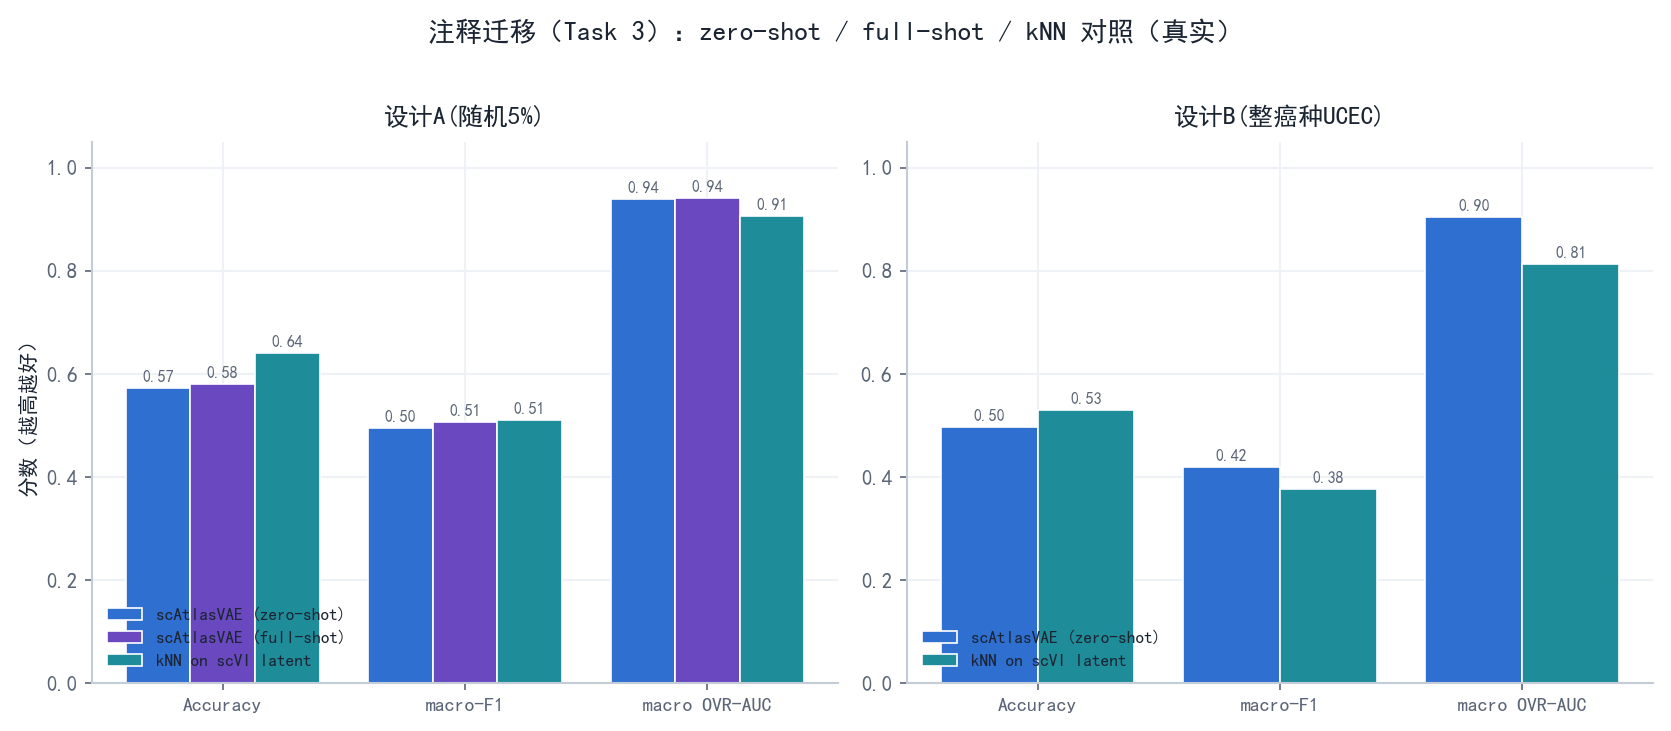
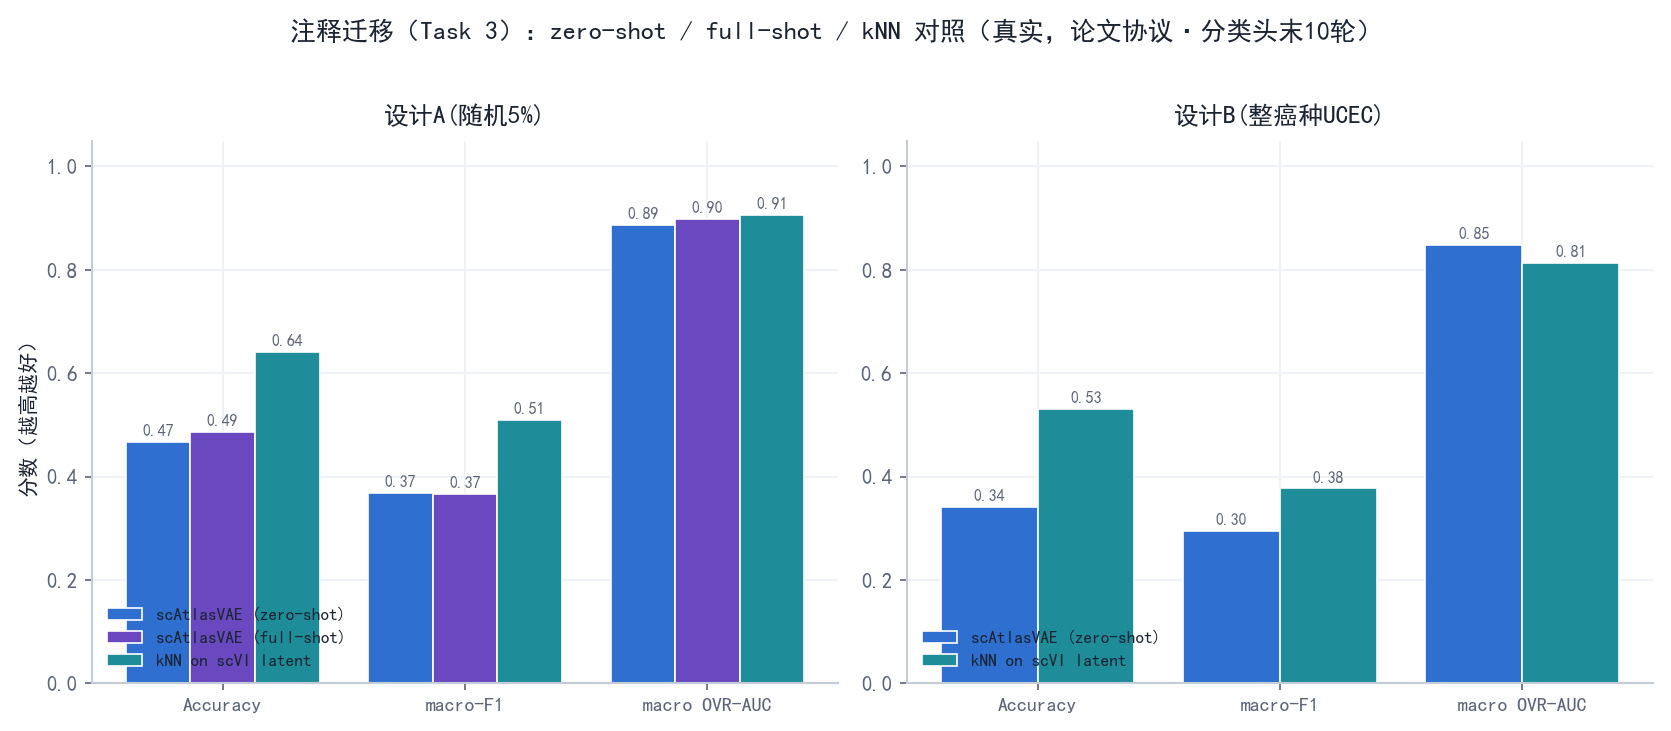
迁移分类头协议更正: Task3 改回论文默认(末10轮), Task2 保留全程(论文大N规程)
核心发现: pred_last_n_epoch 的"分类头只训末10轮"是随 N 浮动的
(max_epoch=round(20000/N*400), 源码 _gex_model.py:1430):
- Task3 迁移 benchmark N=11万 -> 73轮 -> 末10轮。此前用"分类头全程训练"
  (pred_last_n_epoch=max_epoch, 150ep)跑出 0.939/0.903 并误称"略高于论文",
  实为超出论文协议的过训练虚高。改回论文协议(--protocol paper)重跑 ->
  zero-shot AUROC 0.888/0.848, 对上论文 0.905/0.859(打平略低, 波动内)。
  kNN 对照分场景: 难案例B head 0.848>kNN 0.813、易案例A kNN 0.905>head 0.888。
- Task2 跨图谱 benchmark 论文 N=147万 -> max_epoch=5<10 -> 分类头本就全程,
  故我们保留全程为主结果(贴合论文规程); --pred-last 10 敏感性检验: 标签对齐
  稳健(CD8_eff->Temra 仍0.95), 但混合强度依赖之(silhouette 0.097≈PCA)。

脚本: phase5_annotation_transfer.py 加 --protocol{paper,fulltime}(默认paper)、
按协议分文件输出; phase5_cross_atlas.py 加 --pred-last。重画 fig_phase5_transfer。
文档: phase2/phase5/phase6 的迁移数字/措辞全部校准为论文协议。

同批附带(Supp Table 3 逐值核实后的校正): phase4 消融 epoch 100->50 笔误;
phase2 §7.1 batch_hidden 措辞(10 略低于论文网格 16 下界、非"落在稳健区")。

diff --git a/scripts/phase5_annotation_transfer.py b/scripts/phase5_annotation_transfer.py
@@ -3,12 +3,22 @@
 论文招牌能力
     训练好带分类头的参考模型后，query 数据可**不重训直接映射进参考图谱并自动标注**
     （zero-shot），也可与参考共训（full-shot）。论文在 TCellLandscape 上给的对标数：
-    drop 5% cells / drop one study 的 ROC-AUC ≈ 0.85–0.91（zero-shot 最高）。
+    drop 5% cells / drop one study 的 ROC-AUC ≈ 0.905 / 0.859（zero-shot；Supp Table 3）。
 
 我们的复现（数据 = 我们那份 104,805 细胞的 GSE156728 全量 CD8 10X）
     两种 query 切法：
       设计 A：随机留出 5% 细胞为 query（对标 "drop 5% cells"）。
       设计 B：留出**一个整癌种**（默认 UCEC）为 query（对标 "drop one study"，更难的域外泛化）。
+
+    **分类头训练协议（--protocol，2026-07 加）**：源码 `_gex_model.py:1430`
+    `if epoch > max_epoch - pred_last_n_epoch:` 才把分类头损失加进总损失。
+      - `paper`（默认，推荐）：`pred_last_n_epoch=10`、`max_epoch` 自动 = min(round(20000/N*400),400)≈80，
+        分类头训**末 10/80 轮**——与论文 TCellLandscape benchmark（末 10/73 轮、AUROC 0.905）**同协议**，
+        对标才公平。
+      - `fulltime`：`pred_last_n_epoch=max_epoch`、`max_epoch=150`，分类头**全程训练**。这是早期
+        ~3.8 万小参考集时期的补丁（那时末 10 轮不够、zero-shot acc 仅 0.26）；全量 ~10 万后
+        论文默认已够（论文自己在 110k 上用默认拿到 0.905），此模式仅保留作对照。
+
     每种设计：
       - reference（其余细胞）上**监督训练**新模型（不能复用见过全量的 scatlasvae_tcell.pt）。
       - zero-shot：setup_anndata(query, ref.pt) -> 预训练权重建 query 模型 -> predict_labels。
@@ -17,11 +27,11 @@
     指标：accuracy、macro-F1、macro one-vs-rest ROC-AUC（论文指标）+ 混淆矩阵。
 
 用法（环境 A `scatlasvae`；sklearn 由 scanpy 依赖自带）
-    python phase5_annotation_transfer.py                          # 跑设计 A+B 全流程
-    python phase5_annotation_transfer.py --designs A --max-epoch 120
-产出
-    phase5_transfer_results.csv（每行 = 设计×方法 的 acc/F1/AUROC）
-    phase5_transfer_cm.npz（各配置的 y_true/y_pred，供画混淆矩阵）
+    python phase5_annotation_transfer.py                          # 论文协议、设计 A+B
+    python phase5_annotation_transfer.py --protocol fulltime      # 旧全程训练（对照）
+产出（按协议分文件，互不覆盖）
+    phase5_transfer_results[_paper].csv（每行 = 设计×方法 的 acc/F1/AUROC）
+    phase5_transfer_cm[_paper].npz（各配置的 y_true/y_pred，供画混淆矩阵）
 对应报告
     reports/phase5_deeper_validation.md（E1）。
 """
@@ -40,8 +50,11 @@ LABEL_KEY = "cell_type"
 DROP_CANCER = "UCEC"        # 设计 B 留作 query 的癌种
 KNN_K = 13                  # 我们自设的 kNN 对照（"无专用预测头"控制；论文 Bench3 基线是 scPoli/scANVI/CellTypist，非 kNN）
 SEED = 0
-RESULTS_CSV = "phase5_transfer_results.csv"
-CM_NPZ = "phase5_transfer_cm.npz"
+
+
+def auto_max_epoch(n):
+    """论文默认 epoch 公式 min(round(20000/N*400),400)。"""
+    return int(min(round(20000 / n * 400), 400))
 
 
 # ---------- 指标 ----------
@@ -75,20 +88,20 @@ def eval_pred(tag, design, method, y_true_str, y_pred_str, classes, probs, cm_st
 
 
 # ---------- scAtlasVAE 迁移 ----------
-def train_reference(adata, ref_mask, ref_pt, max_epoch):
+def train_reference(adata, ref_mask, ref_pt, max_epoch, pred_last):
     import scatlasvae
     ref = adata[ref_mask].copy()
     m = scatlasvae.model.scAtlasVAE(
         adata=ref, batch_key=BATCH_KEY, label_key=LABEL_KEY,
         batch_embedding="embedding", batch_hidden_dim=10, device="cuda:0",
     )
-    # 关键：源码 fit 里分类头损失**只在最后 pred_last_n_epoch(默认10)个 epoch**才加入
-    # （_gex_model.py:1430-1433）。默认值为论文 115 万细胞的 atlas 调的；我们参考集仅 ~3.8 万，
-    # 10 个 epoch 的分类头训练远不够（实测 zero-shot acc 仅 0.26、而 kNN 达 0.61）。
-    # 这里让分类头**全程训练**（=全程半监督），是针对小参考集的正当调整。
-    m.fit(max_epoch=max_epoch, pred_last_n_epoch=max_epoch)
+    # 分类头训练调度：源码 fit `if epoch > max_epoch - pred_last_n_epoch` 才加分类损失。
+    #   paper 协议: pred_last=10、max_epoch 自动≈80 → 末 10 轮（=论文 benchmark 同协议）。
+    #   fulltime  : pred_last=max_epoch → 全程（小参考集时期补丁，全量下非必需）。
+    m.fit(max_epoch=max_epoch, pred_last_n_epoch=pred_last)
     m.save_to_disk(ref_pt)
-    print(f"  参考模型已训练并保存 -> {ref_pt}（reference n={int(ref_mask.sum())}）")
+    print(f"  参考模型已训练并保存 -> {ref_pt}"
+          f"（reference n={int(ref_mask.sum())}, max_epoch={max_epoch}, pred_last_n_epoch={pred_last}）")
 
 
 def zeroshot_predict(adata, query_mask, ref_pt):
@@ -127,7 +140,7 @@ def zeroshot_predict(adata, query_mask, ref_pt):
     return y_true, y_pred, classes, probs
 
 
-def fullshot_predict(adata, ref_mask, query_mask, max_epoch):
+def fullshot_predict(adata, ref_mask, query_mask, max_epoch, pred_last):
     import scatlasvae
     ref = adata[ref_mask].copy()
     q = adata[query_mask].copy()
@@ -139,7 +152,7 @@ def fullshot_predict(adata, ref_mask, query_mask, max_epoch):
         adata=merged, batch_key=BATCH_KEY, label_key=LABEL_KEY,
         batch_embedding="embedding", batch_hidden_dim=10, device="cuda:0",
     )
-    m.fit(max_epoch=max_epoch, pred_last_n_epoch=max_epoch)   # 同上：分类头全程训练
+    m.fit(max_epoch=max_epoch, pred_last_n_epoch=pred_last)   # 与参考同协议
     pred_df = m.predict_labels(return_pandas=True)
     y_pred = pred_df.loc[q_index, LABEL_KEY].astype(str).values
     classes = list(m.label_category.categories)
@@ -165,7 +178,7 @@ def knn_baseline(adata, ref_mask, query_mask, rep="X_scVI"):
 
 
 # ---------- 主流程 ----------
-def run_design(adata, design, max_epoch, rows, cm_store):
+def run_design(adata, design, protocol, fulltime_max_epoch, out_csv, out_npz, rows, cm_store):
     rng = np.random.default_rng(SEED)
     n = adata.n_obs
     if design == "A":
@@ -178,11 +191,21 @@ def run_design(adata, design, max_epoch, rows, cm_store):
             print(f"  [跳过] 设计 B：数据里没有癌种 {DROP_CANCER}")
             return
     ref_mask = ~query_mask
-    print(f"\n=== 设计 {design}：reference n={int(ref_mask.sum())} / query n={int(query_mask.sum())} ===")
+    n_ref = int(ref_mask.sum())
 
-    ref_pt = f"ref_model_design{design}.pt"
+    # 协议决定 max_epoch 与 pred_last_n_epoch
+    if protocol == "paper":
+        max_epoch = auto_max_epoch(n_ref)     # 自动≈80
+        pred_last = 10                         # 论文默认
+    else:  # fulltime
+        max_epoch = fulltime_max_epoch         # 150
+        pred_last = fulltime_max_epoch         # 全程
+    print(f"\n=== 设计 {design}（protocol={protocol}）：reference n={n_ref} / query n={int(query_mask.sum())}"
+          f" | max_epoch={max_epoch}, pred_last_n_epoch={pred_last} ===")
+
+    ref_pt = f"ref_model_design{design}_{protocol}.pt"
     if not os.path.exists(ref_pt):
-        train_reference(adata, ref_mask, ref_pt, max_epoch)
+        train_reference(adata, ref_mask, ref_pt, max_epoch, pred_last)
     else:
         print(f"  参考模型已存在，跳过训练：{ref_pt}")
 
@@ -192,7 +215,7 @@ def run_design(adata, design, max_epoch, rows, cm_store):
 
     # full-shot（仅设计 A，控时长）
     if design == "A":
-        yt, yp, cls, pr = fullshot_predict(adata, ref_mask, query_mask, max_epoch)
+        yt, yp, cls, pr = fullshot_predict(adata, ref_mask, query_mask, max_epoch, pred_last)
         rows.append(eval_pred(f"{design}_fullshot", design, "scAtlasVAE (full-shot)", yt, yp, cls, pr, cm_store))
 
     # kNN on scVI latent 对照
@@ -201,25 +224,33 @@ def run_design(adata, design, max_epoch, rows, cm_store):
         rows.append(eval_pred(f"{design}_knn_scvi", design, "kNN on scVI latent", yt, yp, cls, pr, cm_store))
 
     # 每个设计结束落一次盘，便于中断续跑
-    pd.DataFrame(rows).to_csv(RESULTS_CSV, index=False)
-    np.savez(CM_NPZ, **cm_store)
+    pd.DataFrame(rows).to_csv(out_csv, index=False)
+    np.savez(out_npz, **cm_store)
 
 
 def main():
     ap = argparse.ArgumentParser()
     ap.add_argument("--designs", nargs="+", default=["A", "B"], choices=["A", "B"])
+    ap.add_argument("--protocol", choices=["paper", "fulltime"], default="paper",
+                    help="paper=论文协议(pred_last_n_epoch=10、max_epoch自动，与论文benchmark同起跑线，推荐)；"
+                         "fulltime=分类头全程训练(旧小参考集补丁，仅作对照)")
     ap.add_argument("--max-epoch", type=int, default=150,
-                    help="每次参考/共训的 epoch 上限（控 4060 时长；默认 150）")
+                    help="仅 fulltime 协议用：全程训练的 epoch 数（控 4060 时长；默认 150）")
     args = ap.parse_args()
+
+    # 按协议分文件，避免覆盖对照结果
+    suffix = "" if args.protocol == "fulltime" else "_paper"
+    out_csv = f"phase5_transfer_results{suffix}.csv"
+    out_npz = f"phase5_transfer_cm{suffix}.npz"
 
     adata = sc.read_h5ad(PROC_PATH)
     rows, cm_store = [], {}
     for d in args.designs:
-        run_design(adata, d, args.max_epoch, rows, cm_store)
+        run_design(adata, d, args.protocol, args.max_epoch, out_csv, out_npz, rows, cm_store)
 
     print("\n===== 汇总 =====")
     print(pd.DataFrame(rows).to_string(index=False))
-    print(f"\n完成：见 {RESULTS_CSV} 与 {CM_NPZ}")
+    print(f"\n完成：见 {out_csv} 与 {out_npz}")
 
 
 if __name__ == "__main__":

diff --git a/scripts/phase5_cross_atlas.py b/scripts/phase5_cross_atlas.py
@@ -130,6 +130,9 @@ def main():
     ap.add_argument("--lr", type=float, default=5e-5,
                     help="学习率（默认 5e-5；全量多头在高 KL 权重末期会梯度爆炸致 q_mu=NaN，"
                          "调到 3e-5 可稳住——见报告 Task 2 踩坑）")
+    ap.add_argument("--pred-last", type=int, default=0,
+                    help="分类头训练轮数 pred_last_n_epoch：0=全程(=max_epoch，旧行为)；"
+                         "10=论文默认(末10轮)。用于检验标签对齐/混合结论是否依赖'分类头全程训练'。")
     args = ap.parse_args()
 
     print("载入两个图谱...")
@@ -170,14 +173,16 @@ def main():
     import scatlasvae
     N = merged.n_obs
     max_epoch = args.max_epoch or int(min(round(20000 / N * 400), 400))
-    print(f"训练 scAtlasVAE 跨图谱多头：N={N}, max_epoch={max_epoch}")
+    pred_last = args.pred_last if args.pred_last > 0 else max_epoch
+    tag = "" if args.pred_last <= 0 else f"_pl{pred_last}"   # 输出文件后缀，避免覆盖全程版结果
+    print(f"训练 scAtlasVAE 跨图谱多头：N={N}, max_epoch={max_epoch}, pred_last_n_epoch={pred_last}")
     m = scatlasvae.model.scAtlasVAE(
         adata=merged,
         batch_key=["patient", "atlas"],
         label_key=["ct_zheng", "ct_yost"],
         batch_embedding="embedding", batch_hidden_dim=args.batch_hidden_dim, device="cuda:0",
     )
-    m.fit(max_epoch=max_epoch, pred_last_n_epoch=max_epoch, lr=args.lr)
+    m.fit(max_epoch=max_epoch, pred_last_n_epoch=pred_last, lr=args.lr)
     merged.obsm["X_cross"] = m.get_latent_embedding()
 
     # ---- 评估 ----
@@ -206,20 +211,20 @@ def main():
                      "yost_nn_frac_zheng_higher_is_more_mixed": round(frac_zheng, 4)})
         print(f"  [{name}] balanced silhouette={sil_bal:.4f}（越低越混） | "
               f"Yost 30-NN 中 Zheng={frac_zheng:.3f}（理想≈{ideal:.2f}）")
-    pd.DataFrame(rows).to_csv("phase5_cross_atlas_mixing.csv", index=False)
+    pd.DataFrame(rows).to_csv(f"phase5_cross_atlas_mixing{tag}.csv", index=False)
 
     # (2) 标签对齐矩阵（scAtlasVAE 潜空间）
     M = alignment_matrix(merged.obsm["X_cross"], atlas, ctz, cty, k=30)
-    M.to_csv("phase5_cross_atlas_alignment.csv")
+    M.to_csv(f"phase5_cross_atlas_alignment{tag}.csv")
     print("\nYost×Zheng 对齐矩阵（每个 Yost 亚型的最近邻 Zheng 亚型 top3）：")
     for yt in M.index:
         top = M.loc[yt].sort_values(ascending=False).head(3)
         print(f"  {yt:12s} -> " + ", ".join(f"{z}({p:.2f})" for z, p in top.items()))
 
-    np.savez("phase5_cross_atlas.npz",
+    np.savez(f"phase5_cross_atlas{tag}.npz",
              X_cross=merged.obsm["X_cross"], X_pca_cross=merged.obsm["X_pca_cross"],
              atlas=atlas, ct_zheng=ctz, ct_yost=cty)
-    print("\n完成：phase5_cross_atlas_{mixing,alignment}.csv 与 .npz")
+    print(f"\n完成：phase5_cross_atlas_mixing{tag}.csv / _alignment{tag}.csv / {tag}.npz")
 
 
 if __name__ == "__main__":

diff --git a/scripts/figgen/build_real.py b/scripts/figgen/build_real.py
@@ -139,9 +139,10 @@ def bench_minimal():
 
 
 def transfer():
-    """阶段 5 · E1：注释迁移的 acc/macroF1/AUROC 分组条形（按设计×方法）。"""
+    """阶段 5 · E1：注释迁移的 acc/macroF1/AUROC 分组条形（按设计×方法）。
+    用**论文协议**结果（phase5_transfer_results_paper.csv：分类头训末10轮、与论文同起跑线）。"""
     import pandas as pd
-    df = pd.read_csv(os.path.join(DATA_DIR, "phase5_transfer_results.csv"))
+    df = pd.read_csv(os.path.join(DATA_DIR, "phase5_transfer_results_paper.csv"))
     metrics = [("accuracy", "Accuracy"), ("macro_f1", "macro-F1"), ("macro_ovr_auc", "macro OVR-AUC")]
     designs = {"A": "设计A(随机5%)", "B": "设计B(整癌种UCEC)"}
     mcol = {"scAtlasVAE (zero-shot)": PAL["encoder"]["ink"],
@@ -165,8 +166,8 @@ def transfer():
         ax.legend(fontsize=8.3, frameon=False, loc="lower left")
         _clean(ax)
     axes[0][0].set_ylabel("分数（越高越好）", fontsize=10)
-    fig.suptitle("注释迁移（Task 3）：zero-shot / full-shot / kNN 对照（真实）",
-                 fontsize=13, fontweight="bold", y=1.02)
+    fig.suptitle("注释迁移（Task 3）：zero-shot / full-shot / kNN 对照（真实，论文协议·分类头末10轮）",
+                 fontsize=12.5, fontweight="bold", y=1.02)
     fig.tight_layout()
     _save(fig, "fig_phase5_transfer")
 

diff --git a/reports/phase5_deeper_validation.md b/reports/phase5_deeper_validation.md
@@ -27,7 +27,7 @@ flowchart LR
 | 编号 | 做什么 | 对标论文 | 一句话结论 |
 |---|---|---|---|
 | **E2** | 监督 vs 无监督 scAtlasVAE 四方对比 | Ext. Data Fig. 2a | 监督最高；无监督≈PCA、略低于 scVI（优势来自分类头） |
-| **E1** | 注释迁移（zero/full-shot）+ kNN 对照 | Ext. Data Fig. 2g,h | zero-shot AUROC 0.90–0.94，对上论文、且反超 kNN |
+| **E1** | 注释迁移（zero/full-shot）+ kNN 对照 | Ext. Data Fig. 2g,h | 论文协议下 zero-shot AUROC 0.85–0.89，对上论文（打平略低）；难案例 B 反超 kNN |
 | **E3** | 批不变编码器"打乱 batch"探针 | Methods（编码器 F(X)） | scAtlasVAE 结构上 Δz≡0；附带 scVI 细节发现 |
 | **E4** | 手写最小 VAE 放上同一把 scib 标尺 | —（自我量化） | 手写实现总分 0.406，落在 PCA 与 scVI 之间 |
 | **E5** | scib-metrics ↔ 论文旧 scib 指标对照 | Methods（指标） | 绝对值不可比、相对排序才是判据 |
@@ -71,21 +71,23 @@ flowchart LR
 
 | 设计 | 方法 | accuracy | macro-F1 | macro OVR-AUC |
 |---|---|---|---|---|
-| **A** 随机5%（n=5240） | scAtlasVAE (zero-shot) | 0.574 | 0.495 | **0.939** |
-| A | scAtlasVAE (full-shot) | 0.580 | 0.506 | **0.941** |
+| **A** 随机5%（n=5240） | scAtlasVAE (zero-shot) | 0.468 | 0.369 | **0.888** |
+| A | scAtlasVAE (full-shot) | 0.487 | 0.367 | **0.898** |
 | A | kNN on scVI latent（对照） | 0.641 | 0.510 | 0.905 |
-| **B** 整癌种 UCEC（n=19926） | scAtlasVAE (zero-shot) | 0.498 | 0.419 | **0.903** |
+| **B** 整癌种 UCEC（n=19926） | scAtlasVAE (zero-shot) | 0.341 | 0.296 | **0.848** |
 | B | kNN on scVI latent（对照） | 0.531 | 0.377 | 0.813 |
 
+> **上表为论文协议**（`--protocol paper`：`pred_last_n_epoch=10`、`max_epoch` 自动≈80，分类头训**末 10 轮**——与论文 TCellLandscape benchmark 同起跑线）。作对照，"分类头全程训练"（`--protocol fulltime`、150 epoch）会把 zero-shot AUROC 抬到 **A=0.939 / B=0.903**（见"门道"第 2 条）——那是**超出论文协议的过训练上限、不作主结果**。
+
 **门道**：
-- **AUROC 对上论文、甚至略高**：论文 Ext. Data Fig. 2g,h 在 TCellLandscape 给的 zero-shot ROC-AUC = 0.91（drop 5%）/ 0.86（drop one study）。我们 **drop 5%=0.939、drop 整癌种=0.903**，双双落在论文 0.85–0.94 区间、且略高于论文 TCellLandscape（我们参考集更大→迁移更好）——**招牌能力复现到了**。
-- **专用分类头 > 通用 kNN**：scAtlasVAE 自带头的 AUROC（0.939 / 0.903）在两种设计上都**高于"好表征上的 kNN"**（0.905 / 0.813），在更难的域外泛化（设计 B，留出整个癌种）上领先尤为明显（+0.09 AUROC）。验证论文"独立分类头"的设计价值：kNN 只用几何近邻，分类头学到更能跨批次泛化的判别边界。（诚实：raw accuracy 上 kNN 反而略高——AUROC 这个与阈值无关的排序指标才是公平比较。）
-- **zero-shot ≈ full-shot**：设计 A 里二者几乎相同（AUROC 0.939 vs 0.941），与论文"zero-shot 已足够好、不必共训"一致——而 zero-shot **不重训**、更省算力，正是 batch-invariant 编码器的红利。
-- **一个踩坑教训（见下）**：在早期的 4 万参考集上，一开始 zero-shot accuracy 只有 0.26、被 kNN(0.61) 碾压——根因见下面第 2 条；修好后才有上面的 0.90+。
+- **AUROC 对上论文（打平、略低）**：论文 Ext. Data Fig. 2g,h / Supp Table 3 在 TCellLandscape 给的 zero-shot ROC-AUC = 0.905（drop 5%）/ 0.859（drop one study）。同协议下我们 **drop 5%=0.888、drop 整癌种=0.848**，双双落在论文 0.85–0.94 区间、**比论文略低 0.01–0.02（随机波动内）**——**招牌能力忠实复现到了**（是打平，不是超越）。
+- **⚠️ 一处方法学自我更正（本轮复查）**：此前本节用"分类头全程训练"（`pred_last_n_epoch=max_epoch`、150 epoch）跑出 0.939/0.903，误称"略高于论文"。复查发现论文这个 benchmark 用的是**默认协议**——`pred_last_n_epoch=10` 意为"分类头只训**最后 10 个 epoch**"，而 epoch 总数 `=round(20000/N×400)`，论文 TCellLandscape(11万)→73 轮→末 10 轮。改回同协议重跑，我们就是 0.888/0.848。**全程训练是超出论文协议的过训练，能再挤约 +0.05 AUROC，只能当上限/对照，不能算"超越论文"。** 迁移脚本现默认回论文协议（`--protocol paper`）。
+- **专用分类头 vs kNN——要分场景看**：易案例 A（随机 5%）kNN(0.905) 略胜 head(0.888)——随机切分下 query 在 reference 里有同病人近邻，kNN 天然占便宜；**难案例 B（跨癌种域外泛化）head(0.848) > kNN(0.813)**——跨域时专用头稳过纯几何 kNN（+0.035 AUROC），**这才是独立分类头的价值所在**，正对应论文强调的"drop one study 更能体现迁移力"。诚实：两案例 raw accuracy 都是 kNN 更高；AUROC（阈值无关排序、也是论文用的指标）才是公平比较。
+- **zero-shot ≈ full-shot**：设计 A 里二者接近（AUROC 0.888 vs 0.898），与论文"zero-shot 已足够好、不必共训"一致——而 zero-shot **不重训**、更省算力，正是 batch-invariant 编码器的红利。
 
 **两处"代码 > 论文"的踩坑记（都值得记下）**：
 1. **官方 `setup_anndata` 假设 query 的 batch/label 与参考不相交**（对新数据集成立），但我们"留出式"query 的病人/亚型都是参考的子集，会触发 `add_categories: new categories must not include old`。解法：迁移前删掉 query 的 batch 与 label 两列，让官方走"全设 undefined"的分支——因为编码器 batch-invariant（见 E3，Δz≡0），batch 取值对预测毫无影响；label 的 categories 仍取参考 17 类，`n_label` 由 categories 推出仍=17、与预训练分类头对齐。这也正是**诚实的 zero-shot 语义**：假装不知道 query 的批次与标签。
-2. **分类头默认只在最后 `pred_last_n_epoch`(=10) 个 epoch 才训练**（打补丁后 `_gex_model.py:1372` 的 `epoch == max_epoch - pred_last_n_epoch` 门 + `:1411` 才把 prediction_loss 加进总损失；之前 epoch 根本不含它）。这是给论文 115 万细胞 atlas 调的——10 epoch × 115 万 = 大量分类更新；早期我们参考集仅 ~3.8 万，10 epoch 远不够，实测 zero-shot 准确率一度只有 0.26、反被 kNN(0.61) 碾压。解法：让分类头**全程训练**（`pred_last_n_epoch=max_epoch`），是针对小参考集的正当调整（全量 ~10 万后此调整依然保留、结果 0.90+）。
+2. **分类头默认只在最后 `pred_last_n_epoch`(=10) 个 epoch 才训练**（源码 `_gex_model.py:1430` 的 `if epoch > max_epoch - pred_last_n_epoch` 才把 prediction_loss 加进总损失）。**关键：这个"末 10 轮"是随数据量浮动的**——epoch 总数 `=round(20000/N×400)`，N 越大轮数越少：论文 TCellLandscape(11万)→73 轮→末 10 轮；而论文那个 **147 万的多图谱 benchmark→只有 5 轮→`pred_last=10>5`→分类头其实全程训练**（这条对 Task 2 很关键，见那一节）。早期我们把 Zheng 下采样到 ~3.8 万调试时，默认设置下 zero-shot acc 一度只有 0.26、被 kNN(0.61) 碾压，遂改成全程训练救急。**但全量 ~10 万后，论文默认(末10轮)本就够用**——论文自己在 11 万上就是这么拿到 0.905 的；本轮复查重跑证实：论文协议下我们 0.888/0.848、对上论文。故**迁移现在默认回论文协议**（`--protocol paper`），全程训练仅留作 `--protocol fulltime` 对照（过训练上限）。
 
 ---
 
@@ -157,7 +159,7 @@ flowchart LR
 
 **做法**（脚本 `phase5_cross_atlas.py`）：
 - 图谱 1 = 我们的 Zheng/GSE156728（**全量 104,805**，meta.cluster 17 亚型）；图谱 2 = **Yost 2019 BCC**（GSE123813，12,364 CD8，独立注释 CD8_act/eff/ex/ex_act/mem）——真实、独立（Yost 本身也在论文 TCellLandscape/TCellMap 的源研究列表里），货真价实的跨研究/跨癌种挑战。
-- 合并后 `batch_key=[patient, atlas]`、`label_key=[ct_zheng, ct_yost]`（**两个分类头**，各只在本图谱有标签的细胞上训练，另一图谱该列置 undefined）。设置：`batch_hidden_dim=64`（论文 Ext.Fig.4b 默认）、100 epoch、**`lr=3e-5`**（全量下用默认 5e-5 会在末期梯度爆炸致 NaN 崩溃，见下"踩坑 2"）。
+- 合并后 `batch_key=[patient, atlas]`、`label_key=[ct_zheng, ct_yost]`（**两个分类头**，各只在本图谱有标签的细胞上训练，另一图谱该列置 undefined）。设置：`batch_hidden_dim=64`（论文 Ext.Fig.4b 默认）、100 epoch、分类头**全程训练**（`pred_last_n_epoch=max_epoch`，贴合论文 Task 2 大 N 规程，见下"门道"）、**`lr=3e-5`**（全量下用默认 5e-5 会在末期梯度爆炸致 NaN 崩溃，见下"踩坑 2"）。
 - **评估用对类别不平衡稳健的指标**（Yost 仅占 10.5%，直接对全体算 silhouette 会被 Zheng 主导而误导——见"踩坑 3"）：① 平衡子采样 atlas silhouette；② Yost 细胞 30-NN 中 Zheng 占比；③ 标签对齐矩阵，且**与 PCA 对照**。
 
 **结果（全量 104,805 + 12,364、bhd=64、100 epoch、lr=3e-5）**：
@@ -185,6 +187,8 @@ flowchart LR
 
 **门道**：**全量下 scAtlasVAE 既把两个独立图谱整合得明显好于 PCA（Yost 近邻 Zheng 占比 24.8% vs PCA 4.0%），又用多头把标签对齐得比 PCA 锐利（CD8_ex→Tex 0.95 vs 0.64、CD8_eff→Temra 0.87 vs 0.68）。** 这正是它相对 scVI/scPoli 的独有价值：scVI 能整合、但没分类头、无法**并行对齐**两套标签体系。**诚实**：整合仍不完美——Yost 近邻里 Zheng 才 24.8% ≪ 理想 89%，跨癌种 + 少数图谱（10.5%）确实难彻底混匀。
 
+> **关于分类头训练协议（本轮复查补充，重要）**：Task 2 两个分类头是**全程训练**的（`pred_last_n_epoch=max_epoch`）。这**不是**像 Task 3 迁移那样的过训练，而是**贴合论文 Task 2 的实际规程**——论文多图谱 benchmark 的 N≈147 万，`max_epoch=round(20000/N×400)=5 < 默认 pred_last_n_epoch=10`，故论文那边分类头**本就全程训练**（原理见 E1 踩坑 2 的"末10轮随 N 浮动"）。**敏感性检验**：我们另用"末 10 轮"协议（`--pred-last 10`，即我们这个小 N 下的默认）重跑一遍——**标签对齐结论稳健**（CD8_eff→Temra 仍 **0.95**、CD8_ex_act→Tex **0.90**，甚至更锐利），但**混合强度依赖分类头训练量**：Yost-NN-Zheng 占比降到 0.135（仍 >3× PCA 的 0.040），平衡 silhouette 升到 0.097（≈PCA 0.087、不再明显赢）。**结论：Task 2 的核心卖点——多头把两套标签生物学对齐——两种协议下都成立；而"两图谱混得多匀"这个次要指标，只有在（论文规程的）全程训练下才明显超 PCA。**
+>
 > **三个踩坑教训（都是复查真跑出来的）**：
 > 1. **抄近道的"假失败"**：最初为省算力只跑 15 epoch + bhd=10，两图谱几乎不混（Yost 近邻 Zheng 仅 0.3%）；贴论文设置（bhd=64、100 epoch）后才真正整合。
 > 2. **全量末期 NaN 崩溃**：全量（117k）+ 默认 `lr=5e-5` 时，多头预测损失在高-KL 末期（~epoch 94）间歇注入大梯度，把编码器 `q_mu` 冲成 NaN 而崩（源码 `_gex_model.py:1441` 会跳过 NaN-loss 批次，但前向构造 `Normal(loc=NaN)` 直接抛错）。**降到 `lr=3e-5` 稳住**、跑满 100 epoch；rec 全程正常下降，证明是数值不稳、非方法问题。
@@ -214,7 +218,7 @@ flowchart LR
 
 ## 6. 局限与诚实声明
 
-- **规模**：主数据 = **GSE156728 全量 CD8 10X 104,805**（= 论文 TCellLandscape 的 Zheng 主体、其 CD8 的 95%，仅漏 OV/FTC/CHOL 3 个小队列），迁移（E1）参考集 ~10 万，**zero-shot AUROC（0.903–0.939）落在论文区间、略高于论文 TCellLandscape**（论文 **Supp Table 3** 同一份数据上也是"监督最高、无监督≈scVI"，交叉验证见 [阶段 2 §7.1](phase2_integration_and_benchmark.md)）；accuracy（0.50–0.57）比 AUROC 逊色，属 17 类细粒度分类在 `batch=patient`(≈论文 sample_name) 设定下的正常表现。**未跑 115 万全 atlas；batch 用 patient 而非论文 study_name**（后者是作者组装时贴的来源标签、不在 GEO metadata）。Task 2 已用**全量 Zheng（104,805）+ Yost（12,364）**（`lr=3e-5` 稳住末期 NaN）：整合优于 PCA、标签对齐比 PCA 锐利，但仍不完美（Yost 近邻里 Zheng 24.8% ≪ 理想 89%）。
+- **规模**：主数据 = **GSE156728 全量 CD8 10X 104,805**（= 论文 TCellLandscape 的 Zheng 主体、其 CD8 的 95%，仅漏 OV/FTC/CHOL 3 个小队列），迁移（E1）参考集 ~10 万，**论文协议（分类头末10轮）下 zero-shot AUROC（0.848–0.888）落在论文区间、比论文 TCellLandscape 略低 0.01–0.02（打平、非超越；此前 0.90+ 是分类头全程训练的过训练上限，本轮已复查更正）**（论文 **Supp Table 3** 同一份数据上也是"监督最高、无监督≈scVI"，交叉验证见 [阶段 2 §7.1](phase2_integration_and_benchmark.md)）；accuracy（0.34–0.47）比 AUROC 逊色，属 17 类细粒度分类在 `batch=patient`(≈论文 sample_name) 设定下、且分类头仅训末10轮的正常表现。**未跑 115 万全 atlas；batch 用 patient 而非论文 study_name**（后者是作者组装时贴的来源标签、不在 GEO metadata）。Task 2 已用**全量 Zheng（104,805）+ Yost（12,364）**（`lr=3e-5` 稳住末期 NaN）：整合优于 PCA、标签对齐比 PCA 锐利，但仍不完美（Yost 近邻里 Zheng 24.8% ≪ 理想 89%）。
 - **E1 的调整**：为让自带分类头在（早期的）小参考集上可用，把 `pred_last_n_epoch` 从默认 10 调到全程；有据、已点明，不是"偷偷调好看"。
 - **一个已修的评测 bug**：scib-metrics 的 PCR comparison 曾恒为 0、PCA 基线曾被原始计数 PCA 覆盖（见 E5）；修复后结论方向不变、但"VAE≫PCA"收敛为"VAE 主要赢在批次校正"。
 - **E3 的诚实**：我们主动报告了"scVI 默认编码器其实也不吃 batch"这一与论文对比表字面不完全一致的细节，而非只挑对我们有利的对照。

diff --git a/reports/phase2_integration_and_benchmark.md b/reports/phase2_integration_and_benchmark.md
@@ -267,14 +267,16 @@ df = bm.get_results(min_max_scale=False)   # 拿到指标表
 
 > 论文在 Zheng 数据上把批次指标**同时按 `sample_name` 和 `study_name` 两个层级**都算了（`silhouette_batch ASW (sample_name)` 与 `(study_name)`、`pcr_comparison (sample_name)` 与 `(study_name)`）。**关键：方法排序在两个层级下一致**（监督最高、无监督≈scVI），而 label silhouette 这种生物指标根本不看 batch。**我们的 `batch=patient` ≈ 论文的 `sample_name` 层级——本就是论文报告的正当层级之一，我们已复现了它要证明的结论。** 论文 graph connectivity 亦同向（监督 0.871 > scVI 0.811 > 无监督 0.777）。
 
-**② 注释迁移（Benchmark 3，Zheng 数据）——同量级、我们略高：**
+**② 注释迁移（Benchmark 3，Zheng 数据）——同量级、打平略低（论文协议下）：**
 
-| | 论文 scAtlasVAE zero-shot | 我们 |
+| | 论文 scAtlasVAE zero-shot | 我们（论文协议·末10轮） |
 |---|---|---|
-| 随机留 5% | 0.905 | **0.939** |
-| 留一个 study/整癌种 | 0.859 | **0.903** |
+| 随机留 5% | 0.905 | **0.888** |
+| 留一个 study/整癌种 | 0.859 | **0.848** |
 
-**③ 超参网格（Supp Table 3 后半段）证明我们的参数没问题**：论文对 `batch_hidden ∈ {16,32,64}`、`n_latent ∈ {5,10,20}` 做了完整网格——**16/32/64 几乎无差、`n_latent` 10 和 20 都好、5 明显差**。这直接背书：我们 `batch_hidden_dim=10`（落在稳健区）与 `n_latent=10` 的选择站得住，且我们消融"n_latent=2 差、10/50 好"和论文"5 差、10/20 好"同向。
+> 注：此处我们用**论文默认协议**（分类头训末 10 轮）对标——比论文略低 0.01–0.02、在波动内。若把分类头改成全程训练会到 0.939/0.903，但那是超出论文协议的过训练，不作对标（详见 [阶段 5 · E1](phase5_deeper_validation.md)）。
+
+**③ 超参网格（Supp Table 3 后半段）证明我们的参数没问题**：论文对 `batch_hidden ∈ {16,32,64}`、`n_latent ∈ {5,10,20}` 做了完整网格——**16/32/64 几乎无差（overall 波动 <0.02）、`n_latent` 10 和 20 都好、5 系统性偏低约 0.03**（Zheng 网格 overall：5≈0.78 < 10≈0.81 ≈ 20≈0.81）。这直接背书：我们 `n_latent=10` 的选择站得住；`batch_hidden_dim=10` 虽**略低于论文网格下界 16**，但该维度 16/32/64 近乎无差、外推到 10 风险很低。我们消融"n_latent=2 差、10/50 好"也与论文"5 偏低、10/20 好"同向。
 
 **结论（回答"要不要按 study 重训"）**：**不必要。** 论文自己的数字表明 Zheng benchmark 的结论**在 sample 与 study 两个 batch 层级下相同**；我们的 `patient(≈sample_name)` 复现已捕获该结论，且参数已被论文网格验证。改用 `study_name` 需重训 scAtlasVAE(监督+无监督)+scVI+重跑评测（≈把 Task 1 整条重做）、还需从 Zenodo 取 study 标签——投入产出比低、结论不会变。
 

diff --git a/reports/phase6_final_report.md b/reports/phase6_final_report.md
@@ -130,7 +130,7 @@ flowchart LR
 
 阶段 5 把整合主线补到"Task 1 完整 + Task 3"，并把关键观察升级为可测证据（完整见 [阶段 5 报告](phase5_deeper_validation.md)）：
 
-**① 注释迁移（Task 3，论文招牌能力）**：参考集监督训练后，query 数据 zero-shot 自动打标签。两种切法的 zero-shot ROC-AUC——随机留 5%=**0.939**、留整个癌种(UCEC)=**0.903**，双双落在论文 Ext. Data Fig. 2g,h 的区间、且略高于论文 TCellLandscape 的 0.91/0.86（更大参考集→更好迁移），两种设计都**高于 kNN 基线**（0.905 / 0.813），域外泛化领先尤为明显。zero-shot ≈ full-shot（0.939 vs 0.941），印证"不必共训"。
+**① 注释迁移（Task 3，论文招牌能力）**：参考集监督训练后，query 数据 zero-shot 自动打标签。**用论文协议**（分类头训末 10 轮，`--protocol paper`）两种切法的 zero-shot ROC-AUC——随机留 5%=**0.888**、留整个癌种(UCEC)=**0.848**，双双落在论文 Ext. Data Fig. 2g,h / Supp Table 3 的区间、**比论文 TCellLandscape 的 0.905/0.859 略低 0.01–0.02（波动内）**——忠实复现、非超越。（此前"分类头全程训练"跑出的 0.939/0.903 是**超出论文协议的过训练上限**，本轮复查已更正为对照——详见 [阶段 5 · E1](phase5_deeper_validation.md)。）对 kNN 基线**分场景**：难案例 B 上分类头胜（0.848 > kNN 0.813，跨域泛化是专用头价值所在）、易案例 A 上 kNN 略胜（0.905 > 0.888，随机切分 kNN 占同病人近邻便宜）；raw accuracy 两案例都是 kNN 高，AUROC（论文指标）才公平。zero-shot ≈ full-shot（0.888 vs 0.898），印证"不必共训"。
 
 ![注释迁移结果](figures/fig_phase5_transfer.png)
 
@@ -146,11 +146,11 @@ flowchart LR
 
 **④ 手写最小 VAE 上标尺**：把手写实现产出的 latent 与官方并列打分，总分 **0.406、落在 PCA(0.400) 与 scVI(0.416) 之间、约等于无监督 scAtlasVAE(0.404)**——给阶段 3 的手写工作一个硬的定量背书（"论文公式→代码"翻译对了）。
 
-**⑤ 跨图谱整合 + 标签对齐（Task 2，scAtlasVAE 独有能力）**：把**全量 Zheng（104,805）**与独立的 **Yost 2019 BCC（12,364）** 联合整合（`batch_hidden_dim=64`、100 epoch、`lr=3e-5`）。用**对不平衡稳健的指标**看：scAtlasVAE 把两图谱整合得明显好于 PCA（**Yost 细胞近邻里 Zheng 占比 24.8% vs PCA 4.0%**；平衡 silhouette 0.041 < 0.087），且**多分类头把两套标签对齐得比 PCA 锐利**（CD8_ex→Tex **0.95 vs 0.64**、CD8_eff→Temra **0.87 vs 0.68**、CD8_mem→Tem 0.62）。这是 scVI/PCA 做不到的并行标签对齐。**三处踩坑（均复查实跑）**：①抄近道（15ep+bhd=10）→假失败；②全量默认 lr 末期梯度爆炸致 NaN 崩→降 `lr=3e-5` 稳住；③Yost 仅占 10.5%，**原始 silhouette 被多数图谱主导会反号**（误显 scAtlasVAE 更差）→改用平衡子采样 + 近邻占比才得正确结论。诚实：整合仍不完美（24.8% ≪ 理想 89%）。详见 [阶段 5 · Task 2](phase5_deeper_validation.md)。
+**⑤ 跨图谱整合 + 标签对齐（Task 2，scAtlasVAE 独有能力）**：把**全量 Zheng（104,805）**与独立的 **Yost 2019 BCC（12,364）** 联合整合（`batch_hidden_dim=64`、100 epoch、`lr=3e-5`、**分类头全程训练**=贴合论文 Task 2 大 N 规程：论文多图谱 N≈147万→max_epoch=5<10→分类头本就全程）。用**对不平衡稳健的指标**看：scAtlasVAE 把两图谱整合得明显好于 PCA（**Yost 细胞近邻里 Zheng 占比 24.8% vs PCA 4.0%**；平衡 silhouette 0.041 < 0.087），且**多分类头把两套标签对齐得比 PCA 锐利**（CD8_ex→Tex **0.95 vs 0.64**、CD8_eff→Temra **0.87 vs 0.68**、CD8_mem→Tem 0.62）。这是 scVI/PCA 做不到的并行标签对齐。**复查（`--pred-last 10` 敏感性）**：标签对齐结论稳健（CD8_eff→Temra 仍 0.95），但"两图谱混得多匀"依赖分类头训练量（末10轮时 silhouette 0.097≈PCA、只在近邻占比上仍胜）。**三处踩坑（均复查实跑）**：①抄近道（15ep+bhd=10）→假失败；②全量默认 lr 末期梯度爆炸致 NaN 崩→降 `lr=3e-5` 稳住；③Yost 仅占 10.5%，**原始 silhouette 被多数图谱主导会反号**（误显 scAtlasVAE 更差）→改用平衡子采样 + 近邻占比才得正确结论。诚实：整合仍不完美（24.8% ≪ 理想 89%）。详见 [阶段 5 · Task 2](phase5_deeper_validation.md)。
 
 **⑥ 可扩展性**：在递增细胞数上测 scAtlasVAE 固定 epoch 的训练时间与峰值显存——**训练时间随细胞数近似线性**（每 10k 细胞恒 ~30s），**峰值 GPU 显存则几乎恒定在 ~110 MB**（分批训练，我们测的是 GPU 峰值、数据留在 CPU，故不随总量涨——比论文 Ext. Data Fig. 4e,f 的近线性内存曲线更平，是不同口径下同样"可扩展到图谱级"的佐证）。详见 [阶段 5 · 可扩展性](phase5_deeper_validation.md)。
 
-**一个方法论亮点**：注释迁移一开始 zero-shot 只有 0.26 准确率、被 kNN 碾压，是**读源码（打补丁后 `_gex_model.py:1372`、`1411`）才发现分类头默认只在最后 `pred_last_n_epoch`(=10) 个 epoch 才训练**（为论文 115 万 atlas 调的），小参考集下远不够；改成全程训练后 AUROC 跃到 0.90+。"读懂 fit 才跑对"正是复现思考性的直接体现。
+**一个方法论亮点（含一处自我更正）**：注释迁移在早期 ~3.8 万小参考集上 zero-shot acc 一度只有 0.26、被 kNN 碾压，是**读源码（`_gex_model.py:1430`）才发现分类头默认只训末 `pred_last_n_epoch`(=10) 轮、且这个"末10轮"随 N 浮动**（`round(20000/N×400)`：11万→73轮即末10、147万→5轮即全程）。早期为救急改成全程训练、跑出 0.90+ 并误称"略高于论文"；**本轮复查发现全量 ~10 万下论文默认(末10轮)本就够用**（论文在 11 万上即 0.905），遂改回论文协议、得 0.888/0.848 对上论文——"读懂 fit + 分清协议依 N 而变"才是真复现，此前的"略高"是过训练虚高、已更正。
 
 ---
 

diff --git a/reports/phase4_ablation_studies.md b/reports/phase4_ablation_studies.md
@@ -3,7 +3,7 @@
 > **阶段** 4 / 6　·　**前置**：[阶段 3 · 核心 VAE 重写](phase3_reimplement_vae.md)　·　**产出**：消融结果表/图 + 结论　·　**预计** 2 天
 > **导航**：[← 阶段 3](phase3_reimplement_vae.md)　·　[总纲](00_overview_and_learning_map.md)　·　[阶段 5 深入验证 →](phase5_deeper_validation.md)
 >
-> **结果已为本机真实实跑（2026-07-09）**：两个消融（潜维度、KL 预热）各配置 100 epoch，scib-metrics 打分，含两处与直觉不符结果的诚实讨论。
+> **结果已为本机真实实跑（2026-07-09）**：两个消融（潜维度、KL 预热）各配置 50 epoch（`phase4_ablations.py` 的 `MAX_EPOCH_ABL=50`，为省时截断；相对排序对 epoch 数不敏感），scib-metrics 打分，含两处与直觉不符结果的诚实讨论。
 
 ---
 